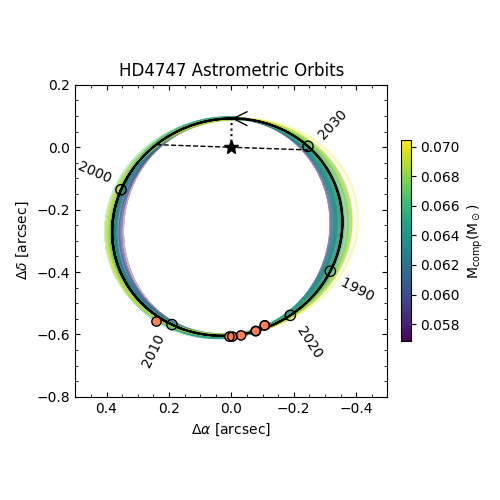
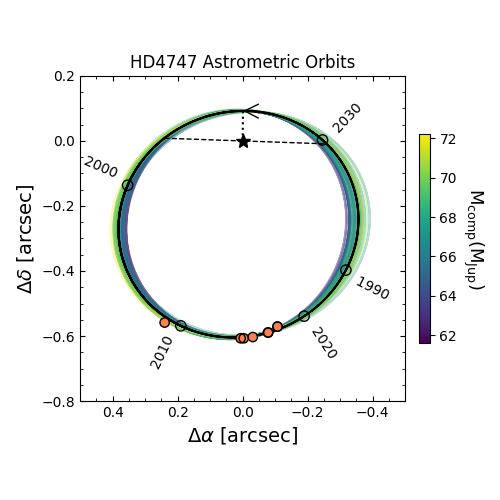
update colorbar settings

Changed region(s): [[0.03, 0.09, 0.99, 0.9]]

diff --git a/orbit3d/orbit_plots.py b/orbit3d/orbit_plots.py
@@ -55,7 +55,7 @@ class OrbitPlots:
         self.colorbar_size = colorbar_size
         self.colorbar_pad = colorbar_pad
         
-        self.cmlabel_dic = {'msec': r'$\mathrm{M_{comp} (M_\odot)}$', 'ecc': 'Eccentricity'}
+        self.cmlabel_dic = {'msec': r'$\mathrm{M_{comp} (M_{Jup})}$', 'ecc': 'Eccentricity'}
         self.color_list = ['r', 'g', 'y', 'm', 'c', 'b']
         
         
@@ -79,7 +79,7 @@ class OrbitPlots:
         
         ################################ set colorbar #####################
         # setup the normalization and the colormap
-        self.nValues = np.array(self.dic_keys)
+        self.nValues = np.array(self.dic_keys)*1989/1.898
         self.normalize = mcolors.Normalize(vmin=self.nValues.min(), vmax=self.nValues.max())
         self.colormap = getattr(cm, self.cm_name)
         self.sm = cm.ScalarMappable(norm=self.normalize, cmap=self.colormap)
@@ -185,7 +185,6 @@ class OrbitPlots:
         except:
             self.multi_instr = False
         return epoch_obs, RV_obs, RV_obs_err, nInst, epoch_obs_dic, RV_obs_dic, RV_obs_err_dic
-        
 
     def load_relAst_data(self):
         """
@@ -441,7 +440,7 @@ class OrbitPlots:
             y = self.ddecs_ml[idx]
             r = np.sqrt(x**2 + y**2)
             
-            # new method to rotate the labels according to angel of normal to the curve tangent
+            # new method to rotate the labels according to angle of normal to the curve tangent
             # need to install the geomdl package to calculate the tangent line
             def array_list(array_num):
                 num_list = array_num.tolist() # list
@@ -502,13 +501,13 @@ class OrbitPlots:
             m_semimajor, b_semimajor = calc_linear([min_x,max_x],[min(dd),max(dd)])
             m_semiminor, b_semiminor = calc_linear([min(dra),max(dra)],[min_y,max_y])
             if dra[idx] < (dd[idx]-b_semimajor)/m_semimajor and dd[idx] > m_semiminor*dra[idx] + b_semiminor:
-                ax.annotate('  ' + str(year), xy = (ctarr[0][0][0], ctarr[0][0][1]), verticalalignment = 'bottom', horizontalalignment = 'left',rotation = - angle[0])
+                ax.annotate('  ' + str(year), xy=(ctarr[0][0][0], ctarr[0][0][1]), verticalalignment='bottom', horizontalalignment='left',rotation =-angle[0])
             if dra[idx] < (dd[idx]-b_semimajor)/m_semimajor and dd[idx] < m_semiminor*dra[idx] + b_semiminor:
-                ax.annotate('  ' + str(year), xy = (ctarr[0][0][0], ctarr[0][0][1]), verticalalignment = 'top', horizontalalignment = 'left',rotation =  angle[0])
+                ax.annotate('  ' + str(year), xy=(ctarr[0][0][0], ctarr[0][0][1]), verticalalignment='top', horizontalalignment='left',rotation =angle[0])
             elif dra[idx] > (dd[idx]-b_semimajor)/m_semimajor and dd[idx] < m_semiminor*dra[idx] + b_semiminor:
-                ax.annotate(str(year)+'  ', xy = (ctarr[0][0][0], ctarr[0][0][1]), verticalalignment = 'top', horizontalalignment = 'right',rotation = - angle[0])
+                ax.annotate(str(year)+'  ', xy=(ctarr[0][0][0], ctarr[0][0][1]), verticalalignment='top', horizontalalignment='right',rotation= -angle[0])
             elif dra[idx] > (dd[idx]-b_semimajor)/m_semimajor and dd[idx] > m_semiminor*dra[idx] + b_semiminor:
-                ax.annotate(str(year)+'  ', xy = (ctarr[0][0][0], ctarr[0][0][1]), verticalalignment = 'bottom', horizontalalignment = 'right',rotation =  angle[0])
+                ax.annotate(str(year)+'  ', xy=(ctarr[0][0][0], ctarr[0][0][1]), verticalalignment='bottom', horizontalalignment='right', rotation=angle[0])
 
 
         # plot line of nodes, periastron and the direction of motion of companion star, and label the host star
@@ -517,19 +516,22 @@ class OrbitPlots:
         # changed, self.idx_pras+1 maybe out of range, changed to -1
         arrow = mpatches.FancyArrowPatch((self.dras_ml[self.idx_pras-1][0], self.ddecs_ml[self.idx_pras-1][0]),(self.dras_ml[self.idx_pras][0], self.ddecs_ml[self.idx_pras][0]),  arrowstyle='->', mutation_scale=25, zorder=100)
         ax.add_patch(arrow)
-        ax.plot(0, 0, marker='*',  color='black', markersize = 10)
+        ax.plot(0, 0, marker='*',  color='black', markersize=10)
         
         ax.set_xlim(self.user_xlim)
         ax.set_ylim(self.user_ylim)
         ax.set_aspect(abs((self.user_xlim[1]-self.user_xlim[0])/(self.user_ylim[1]-self.user_ylim[0])))
         if self.usecolorbar is True:
-            fig.colorbar(self.sm, ax=ax, label=self.cmlabel_dic[self.cmref],fraction=self.colorbar_size, pad=self.colorbar_pad)
+            cbar = fig.colorbar(self.sm, ax=ax, fraction=self.colorbar_size, pad=self.colorbar_pad)
+            cbar.ax.set_ylabel(self.cmlabel_dic[self.cmref], rotation=270, fontsize=13)
+            cbar.ax.get_yaxis().labelpad=20
+                        
         ax.invert_xaxis()
         ax.xaxis.set_minor_locator(AutoMinorLocator())
         ax.yaxis.set_minor_locator(AutoMinorLocator())
         ax.tick_params(direction='in', which='both', left=True, right=True, bottom=True, top=True)
-        ax.set_xlabel(r'$\Delta \alpha$ [arcsec]')
-        ax.set_ylabel(r'$\Delta \delta$ [arcsec]')
+        ax.set_xlabel(r'$\Delta \alpha$ [arcsec]', fontsize=14)
+        ax.set_ylabel(r'$\Delta \delta$ [arcsec]', fontsize=14)
         ax.set_title(self.title + ' Astrometric Orbits')
         print("Plotting Astrometry orbits, your plot is generated at " + self.outputdir)
         plt.tight_layout()
